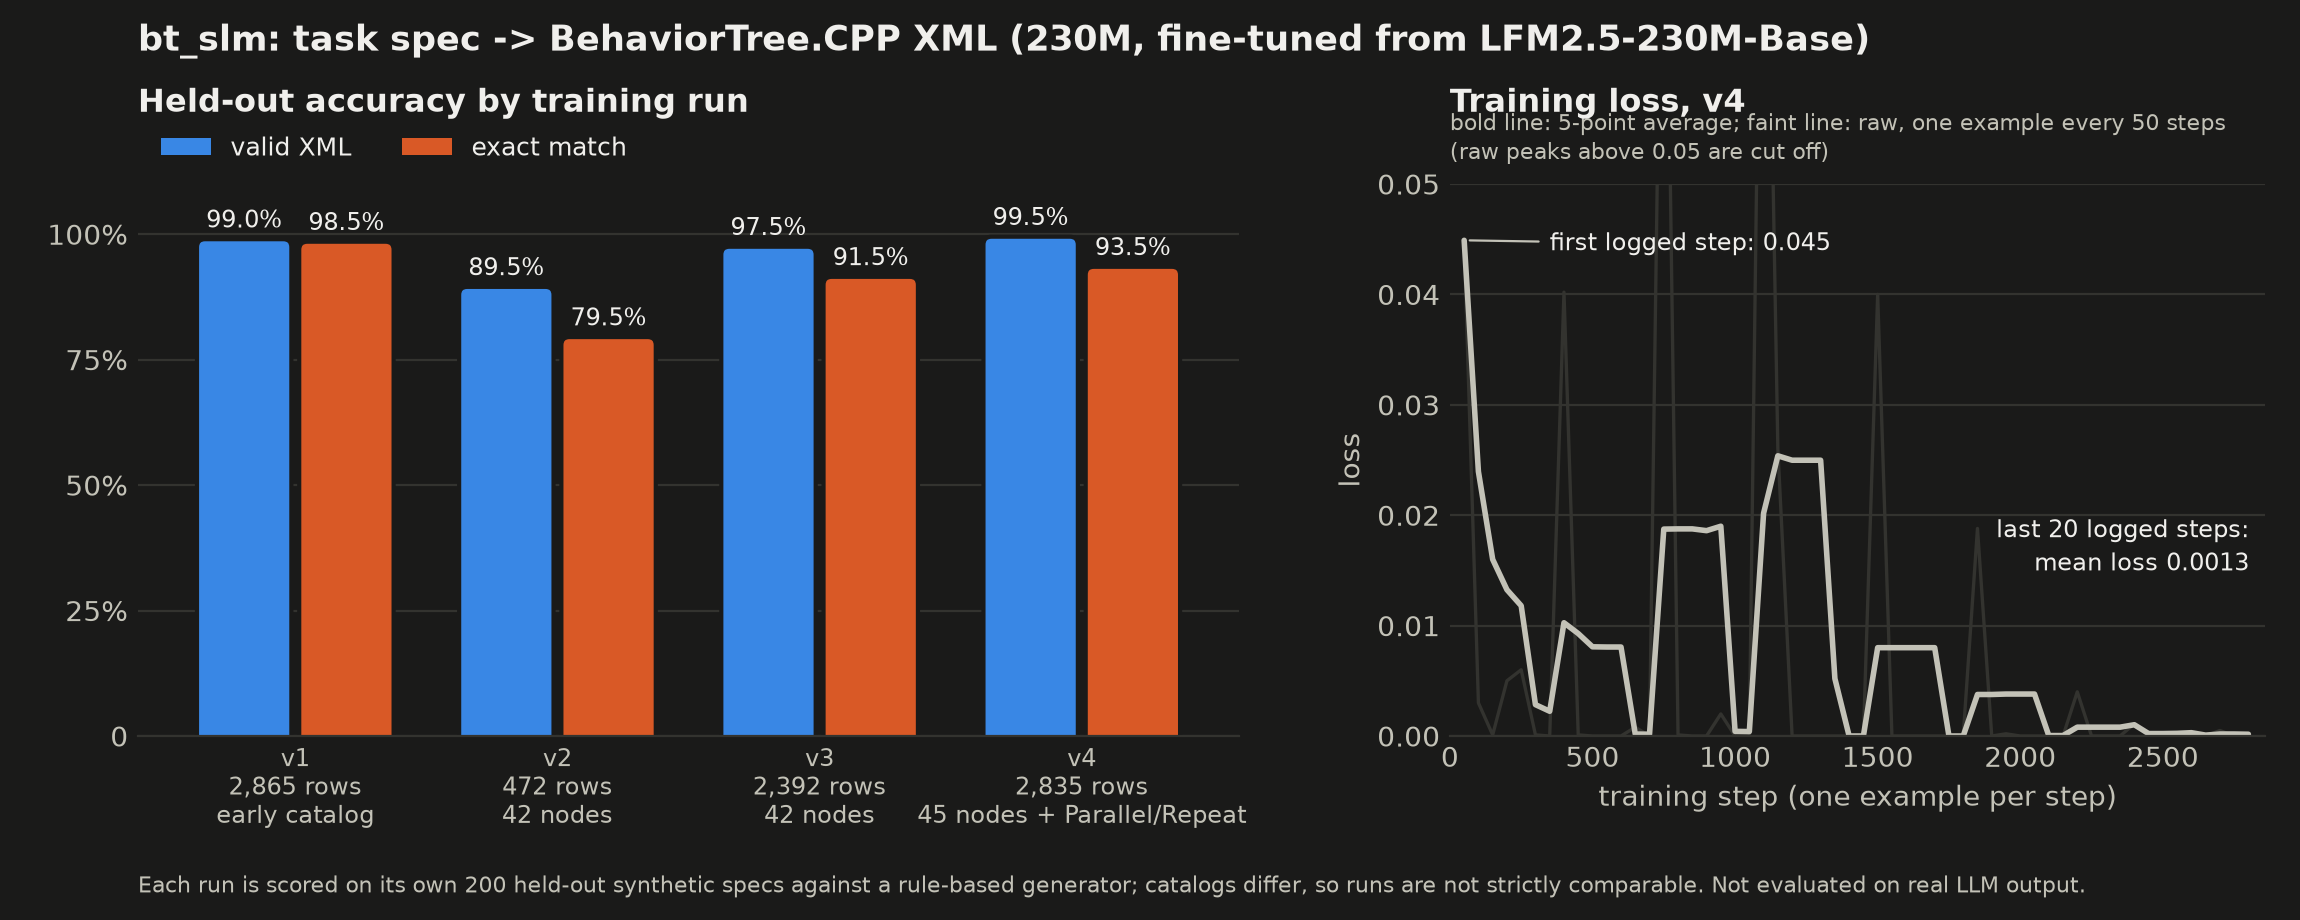
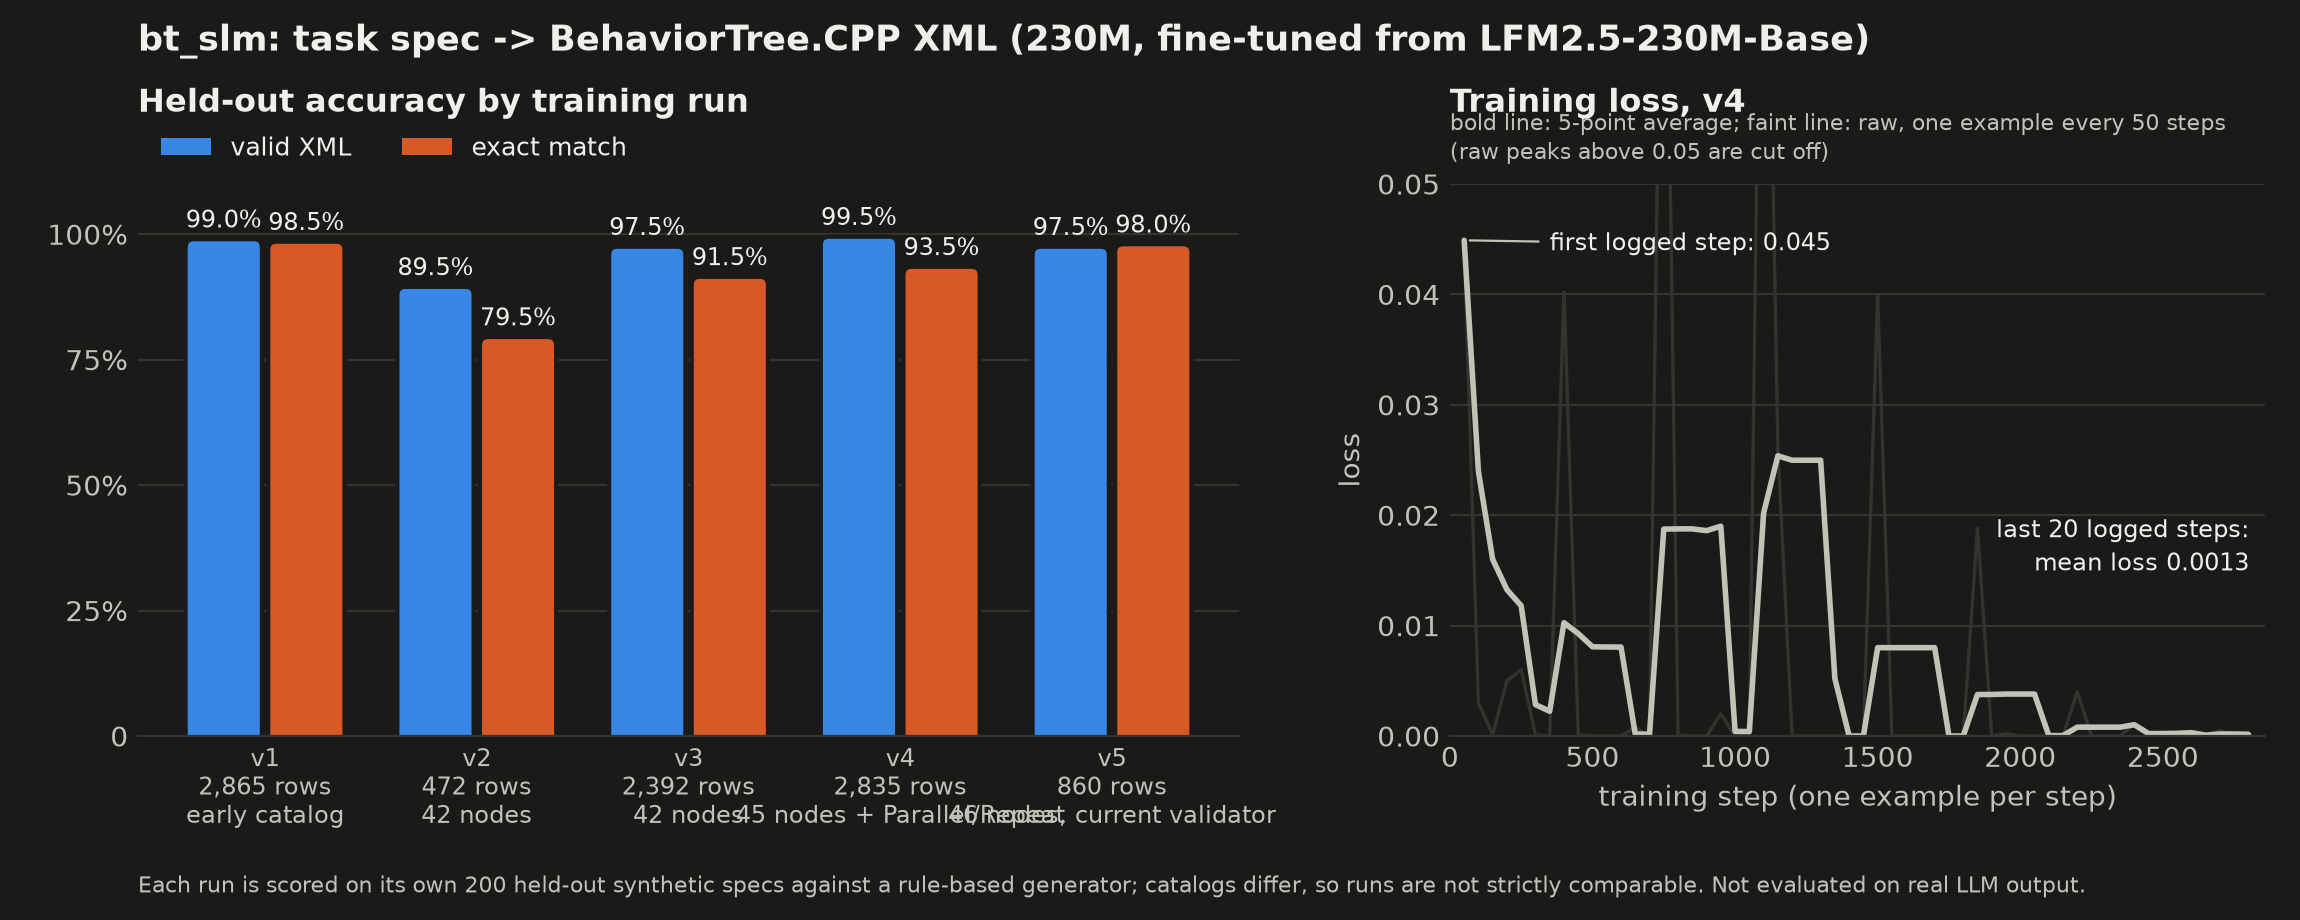
SLM v5 published to the Hugging Face Hub; fair 200-row numbers under the current validator; benchmark chart; runbook (pruned old models and datasets)

Changed region(s): [[0.0617, 0.213, 0.5557, 0.913]]

diff --git a/notes/RUNBOOK.md b/notes/RUNBOOK.md
@@ -218,7 +218,7 @@ Not trained, so no HF update was needed.
 `bt_slm make_bt_dataset --profile heavy|max` (normal rows never exceeded 768 tokens, heavy median about 1.4k, max up to 3.8k). v5 = v4 + 860 rows (150 normal / 500 heavy / 250 max,
 `--max-len 2560`, Adafactor lr 2e-5, `--grad-ckpt`, about 40 minutes; AdamW + fp32 does not fit 4 GB at these lengths). 20 held-out rows per set, valid / exact:
 normal 1.00 / 1.00 (v4 1.00 / 0.90), heavy 0.90 / 0.70 (v4 0.55 / 0.35), max 0.90 / 0.80 (v4 0.80 / 0.50). Promoted to `models/bt-slm` (v4 kept as `models/bt-slm-v4`);
-`max_new_tokens` is now 3072. The public Hugging Face repo is NOT updated (needs a decision: `tools/slm/publish_hf.py`). Gotcha: training stdout is block-buffered into a log file, use `PYTHONUNBUFFERED=1`.
+`max_new_tokens` is now 3072. **Published** to the public `larmkaixian/bt-sim-slm` (2026-11-14, the earlier version stays in the repo history). On the usual 200 normal rows under today's validator: v4 0.970 valid / 0.935 exact, v5 0.975 / 0.980 (5 of those 200 reference trees are Parallel-on-one-extension, which the validator rejects since T-25, so valid cannot exceed 0.975; v4's original 0.995 predates that rule). Pruned the same day: `models/bt-slm-v1..v3`, the duplicate v5 dir and the old `bt_dataset*` dirs (kept: `bt-slm`, `bt-slm-v4` as rollback, `bt_dataset_v3` for the dataset publisher, `bt_dataset_v4_*`; the llama.cpp `cudart` folder is NOT a leftover, the `llama-server` wrapper needs it). Gotcha: training stdout is block-buffered into a log file, use `PYTHONUNBUFFERED=1`.
 
 ## Published dataset (2026-11-14)
 `larmkaixian/bt-sim-dataset` (public, Apache-2.0): config `slm` = `bt_dataset_v3` (11,760 train / 240 validation rows: task spec -> BehaviorTree.CPP XML, validator-labelled) and

diff --git a/docs/slm-benchmark.md b/docs/slm-benchmark.md
@@ -32,6 +32,7 @@ v4 only saw rows under 768 tokens, so long plans were never trained. v5 continue
 | heavy | 0.55 / 0.35 | **0.90 / 0.70** |
 | max | 0.80 / 0.50 | **0.90 / 0.80** |
 
+On the usual 200 normal rows, under today's validator: v4 0.970 / 0.935, v5 0.975 / 0.980 (5 of those 200 reference trees are Parallel-on-one-extension, which the validator now rejects, so valid cannot exceed 0.975).
 Same caveats as above (synthetic specs, rule-based generator as the reference). Generating a heavy plan on the CPU takes much longer than a normal one (about 2000 tokens),
 which is acceptable because the SLM only runs on retries and specs the rules cannot render. Local only so far: the public Hugging Face repo still holds the older version.
 
